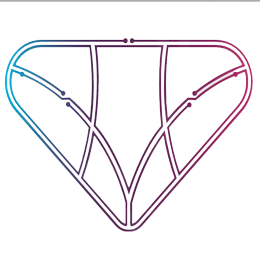
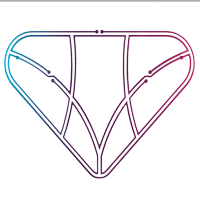
Cargarlogo

Changed region(s): [[0.0, 0.12, 0.99, 0.9], [0.0, 0.0, 1.0, 0.03]]

diff --git a/web-mantis/css/style.css b/web-mantis/css/style.css
@@ -4270,7 +4270,7 @@
  /**-----------*/
  .preloader1 {
   position: fixed;
-  background-image: url(../img/mantinscodev-Recuperado.png);
+  background-image: url(../img/prueba2.png);
   width: 300px;
   height: 300px;
   border: 30px solid #592A56;
@@ -4280,7 +4280,8 @@
   animation-duration: 2s;
   animation-iteration-count: infinite;
   animation-timing-function: linear;
-   
+
+  
      /*top: 0;
      left: 0;
      width: 100%;
@@ -4291,6 +4292,7 @@
 @keyframes girar {
   from {
     transform: rotate(0deg);
+
   }
   to {
     transform: rotate(360deg);
